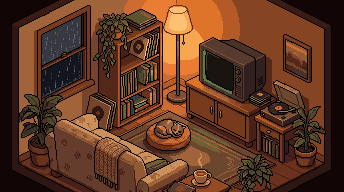
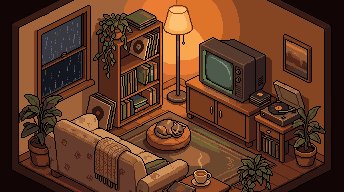
feat: PixelLab-Bilder fuer Huelle, Rueckseite und ausgeschalteten Fernseher

Changed region(s): [[0.5814, 0.2812, 0.6977, 0.4688]]

diff --git a/test/raum-bilder.test.js b/test/raum-bilder.test.js
@@ -89,10 +89,34 @@ test('raum-tv-aus.png hat kein Gruen mehr', () => {
   assert.strictEqual(zaehleGruen(dekodiere(lade('raum-tv-aus.png'))), 0);
 });
 
-test('huelle.png ist im Fenster (5,5,30,30) durchsichtig', () => {
+test('raum-tv-aus.png ist ausserhalb der gruenen Pixel gleich raum.png', () => {
+  const raum = dekodiere(lade('raum.png'));
+  const aus = dekodiere(lade('raum-tv-aus.png'));
+  assert.strictEqual(aus.w, raum.w);
+  assert.strictEqual(aus.h, raum.h);
+  let geprueft = 0;
+  for (let i = 0; i < raum.px.length; i += 4) {
+    if (raum.px[i + 1] > 200 && raum.px[i] < 90) continue;
+    for (let k = 0; k < 4; k++) {
+      if (aus.px[i + k] !== raum.px[i + k]) assert.fail('Pixel ' + (i / 4) + ' weicht ab');
+    }
+    geprueft++;
+  }
+  assert.ok(geprueft > 0);
+});
+
+test('huelle-rueck.png ist die PixelLab-Quelle aus tools/raum-quellen/', () => {
+  const a = dekodiere(lade('huelle-rueck.png'));
+  const b = dekodiere(fs.readFileSync(path.join(__dirname, '..', 'tools', 'raum-quellen', 'huelle-rueck.png')));
+  assert.strictEqual(a.w, b.w);
+  assert.strictEqual(a.h, b.h);
+  assert.ok(a.px.equals(b.px));
+});
+
+test('huelle.png ist im Fenster (2,2,36,36) durchsichtig', () => {
   const b = dekodiere(lade('huelle.png'));
-  for (let y = 5; y < 35; y++) {
-    for (let x = 5; x < 35; x++) {
+  for (let y = 2; y < 38; y++) {
+    for (let x = 2; x < 38; x++) {
       assert.strictEqual(b.px[(y * b.w + x) * 4 + 3], 0, `Pixel ${x},${y} nicht durchsichtig`);
     }
   }

diff --git a/test/home-raum.test.js b/test/home-raum.test.js
@@ -48,10 +48,11 @@ test('home-raum-dom.js: eigene Bilder nur aus ../themes/cozy/', () => {
   assert.ok(!/https?:/.test(js));
 });
 
-test('home-raum-dom.js: Huellen-Fenster als eine Konstante, Profilbild-Canvas 15x15', () => {
-  assert.ok(/HUELLE_FENSTER\s*=\s*\{\s*x:\s*5,\s*y:\s*5,\s*b:\s*30,\s*h:\s*30\s*\}/.test(js));
+test('home-raum-dom.js: Huellen-Fenster als eine Konstante, Profilbild-Canvas halbe Fenstergroesse', () => {
+  assert.ok(/HUELLE_FENSTER\s*=\s*\{\s*x:\s*2,\s*y:\s*2,\s*b:\s*36,\s*h:\s*36\s*\}/.test(js));
   assert.strictEqual((js.match(/HUELLE_FENSTER\s*=/g) || []).length, 1);
-  assert.ok(/width\s*=\s*15/.test(js) && /height\s*=\s*15/.test(js));
+  // 18x18, aus der Konstante abgeleitet
+  assert.ok(/width\s*=\s*HUELLE_FENSTER\.b\s*\/\s*2/.test(js) && /height\s*=\s*HUELLE_FENSTER\.h\s*\/\s*2/.test(js));
   assert.ok(js.includes('drawImage'));
 });
 

diff --git a/renderer/video/home-raum-dom.js b/renderer/video/home-raum-dom.js
@@ -12,7 +12,7 @@
 window.HomeRaumDom = (function () {
   // Lage des Profilbild-Fensters in huelle.png (einzige Stelle; das Bild kann
   // noch getauscht werden).
-  const HUELLE_FENSTER = { x: 5, y: 5, b: 30, h: 30 };
+  const HUELLE_FENSTER = { x: 2, y: 2, b: 36, h: 36 };
   // Vordere Platte im Buecherfach (Raum.FACH.vorn), Bildpixel.
   const VORN_HUELLE = { x: 118, y: 144, b: 40, h: 40 };
   const VORN_PLATTE = { x: 118 + 18, y: 146, b: 36, h: 36 };
@@ -109,8 +109,8 @@ window.HomeRaumDom = (function () {
   // oder Ladefehler: leeres Fenster mit dem Anfangsbuchstaben.
   function profilbild(k, fenster) {
     const c = document.createElement('canvas');
-    c.width = 15;
-    c.height = 15;
+    c.width = HUELLE_FENSTER.b / 2;
+    c.height = HUELLE_FENSTER.h / 2;
     fenster.appendChild(c);
     const anfangsbuchstabe = () => {
       c.remove();

diff --git a/tools/raum-bilder.py b/tools/raum-bilder.py
@@ -3,9 +3,11 @@
 
 Aufruf:  python tools/raum-bilder.py renderer/themes/cozy
 
-Liest raum.png, platte.png und die Entwuerfe in entwuerfe/, schreibt RGBA-PNGs
-und gibt die vier Eckpunkte der Bildschirmflaeche als eine JSON-Zeile aus
-(oben links, oben rechts, unten rechts, unten links), in Pixelkanten.
+Liest raum.png, platte.png und die Entwuerfe in entwuerfe/ sowie die von Janis
+gewaehlten PixelLab-Quellen in tools/raum-quellen/, schreibt RGBA-PNGs und gibt
+die vier Eckpunkte der Bildschirmflaeche als eine JSON-Zeile aus (oben links,
+oben rechts, unten rechts, unten links), in Pixelkanten.
+Es wird nichts selbst gezeichnet: nur zuschneiden, skalieren, ausstanzen, einsetzen.
 """
 import json
 import os
@@ -13,11 +15,15 @@ import sys
 
 from PIL import Image
 
-AUS = (0x1A, 0x14, 0x10, 255)
-GLANZ = (0x4A, 0x3C, 0x30, 255)
-KONTUR = (1, 1, 2, 255)
-KARTON = (237, 224, 184, 255)
-KARTON_SCHATTEN = (205, 188, 142, 255)
+QUELLEN = os.path.join(os.path.dirname(os.path.abspath(__file__)), "raum-quellen")
+# Lage des PixelLab-Ausschnitts tv-aus.png in raum.png
+TV_AUSSCHNITT = (156, 8)
+# Profilbild-Fenster der Huelle (Variante A: Profilbild fuellt das Cover)
+HUELLE_FENSTER = (2, 2, 36, 36)
+
+
+def quelle(name):
+    return Image.open(os.path.join(QUELLEN, name)).convert("RGBA")
 
 
 def ist_gruen(p):
@@ -32,24 +38,17 @@ def tv_bilder(ordner):
     if not gruen:
         raise SystemExit("raum.png: keine gruenen Pixel gefunden")
 
-    xs = [x for x, _ in gruen]
-    ys = [y for _, y in gruen]
-    breite = max(xs) - min(xs) + 1
-    hoehe = max(ys) - min(ys) + 1
-
+    # Ausgeschalteter Fernseher: nur die gruenen Pixel durch den PixelLab-Ausschnitt ersetzen.
+    tv = quelle("tv-aus.png")
+    tp = tv.load()
+    ox, oy = TV_AUSSCHNITT
     aus = raum.copy()
     ap = aus.load()
     maske = Image.new("RGBA", (w, h), (0, 0, 0, 0))
     mp = maske.load()
     for (x, y) in gruen:
-        ap[x, y] = AUS
+        ap[x, y] = tp[x - ox, y - oy]
         mp[x, y] = (255, 255, 255, 255)
-    # Glanzlinie oben links: obere und linke Kante, jeweils nur das erste Stueck.
-    for (x, y) in gruen:
-        if (x, y - 1) not in gruen and x < min(xs) + breite * 0.45:
-            ap[x, y] = GLANZ
-        if (x - 1, y) not in gruen and y < min(ys) + hoehe * 0.45:
-            ap[x, y] = GLANZ
     aus.save(os.path.join(ordner, "raum-tv-aus.png"))
     maske.save(os.path.join(ordner, "raum-tv-maske.png"))
 
@@ -67,30 +66,16 @@ def tv_bilder(ordner):
 
 
 def huelle_bilder(ordner):
-    n = 40
-    for name, fenster in (("huelle.png", True), ("huelle-rueck.png", False)):
-        b = Image.new("RGBA", (n, n), (0, 0, 0, 0))
-        p = b.load()
-        for y in range(n):
-            for x in range(n):
-                rand = x in (0, n - 1) or y in (0, n - 1)
-                ecke = x in (0, n - 1) and y in (0, n - 1)
-                if ecke:
-                    continue
-                if rand:
-                    p[x, y] = KONTUR
-                else:
-                    # Karton, unten und rechts eine Stufe dunkler
-                    p[x, y] = KARTON_SCHATTEN if (x == n - 2 or y == n - 2) else KARTON
-        if fenster:
-            # innere Kontur um das Fenster (4..35), Fenster 5..34 durchsichtig
-            for i in range(4, 36):
-                for (x, y) in ((i, 4), (i, 35), (4, i), (35, i)):
-                    p[x, y] = KONTUR
-            for y in range(5, 35):
-                for x in range(5, 35):
-                    p[x, y] = (0, 0, 0, 0)
-        b.save(os.path.join(ordner, name))
+    # Vorderseite: aeussere Kante der PixelLab-Huelle, Fenster ausgestanzt.
+    huelle = quelle("huelle-kante.png")
+    p = huelle.load()
+    fx, fy, fb, fh = HUELLE_FENSTER
+    for y in range(fy, fy + fh):
+        for x in range(fx, fx + fb):
+            p[x, y] = (0, 0, 0, 0)
+    huelle.save(os.path.join(ordner, "huelle.png"))
+    # Rueckseite unveraendert aus PixelLab.
+    quelle("huelle-rueck.png").save(os.path.join(ordner, "huelle-rueck.png"))
 
 
 def platten(ordner):
